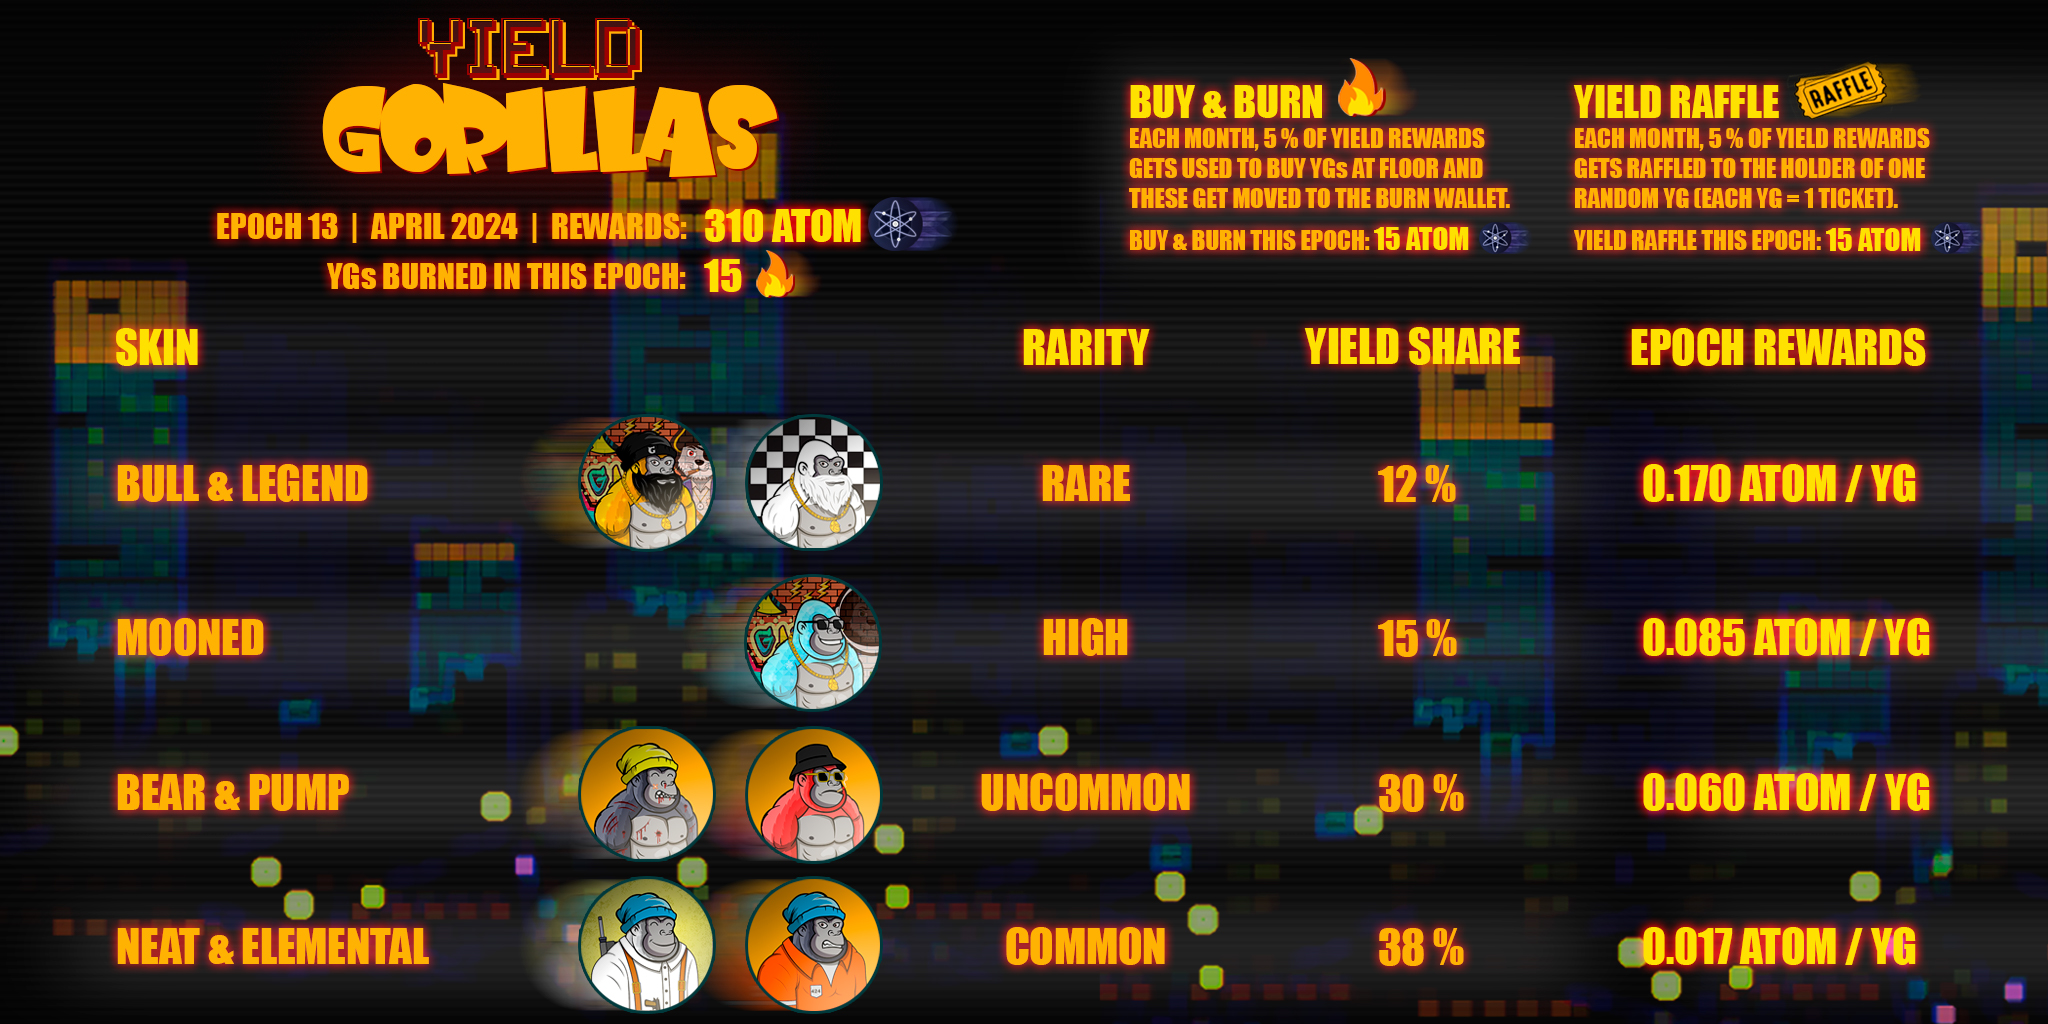
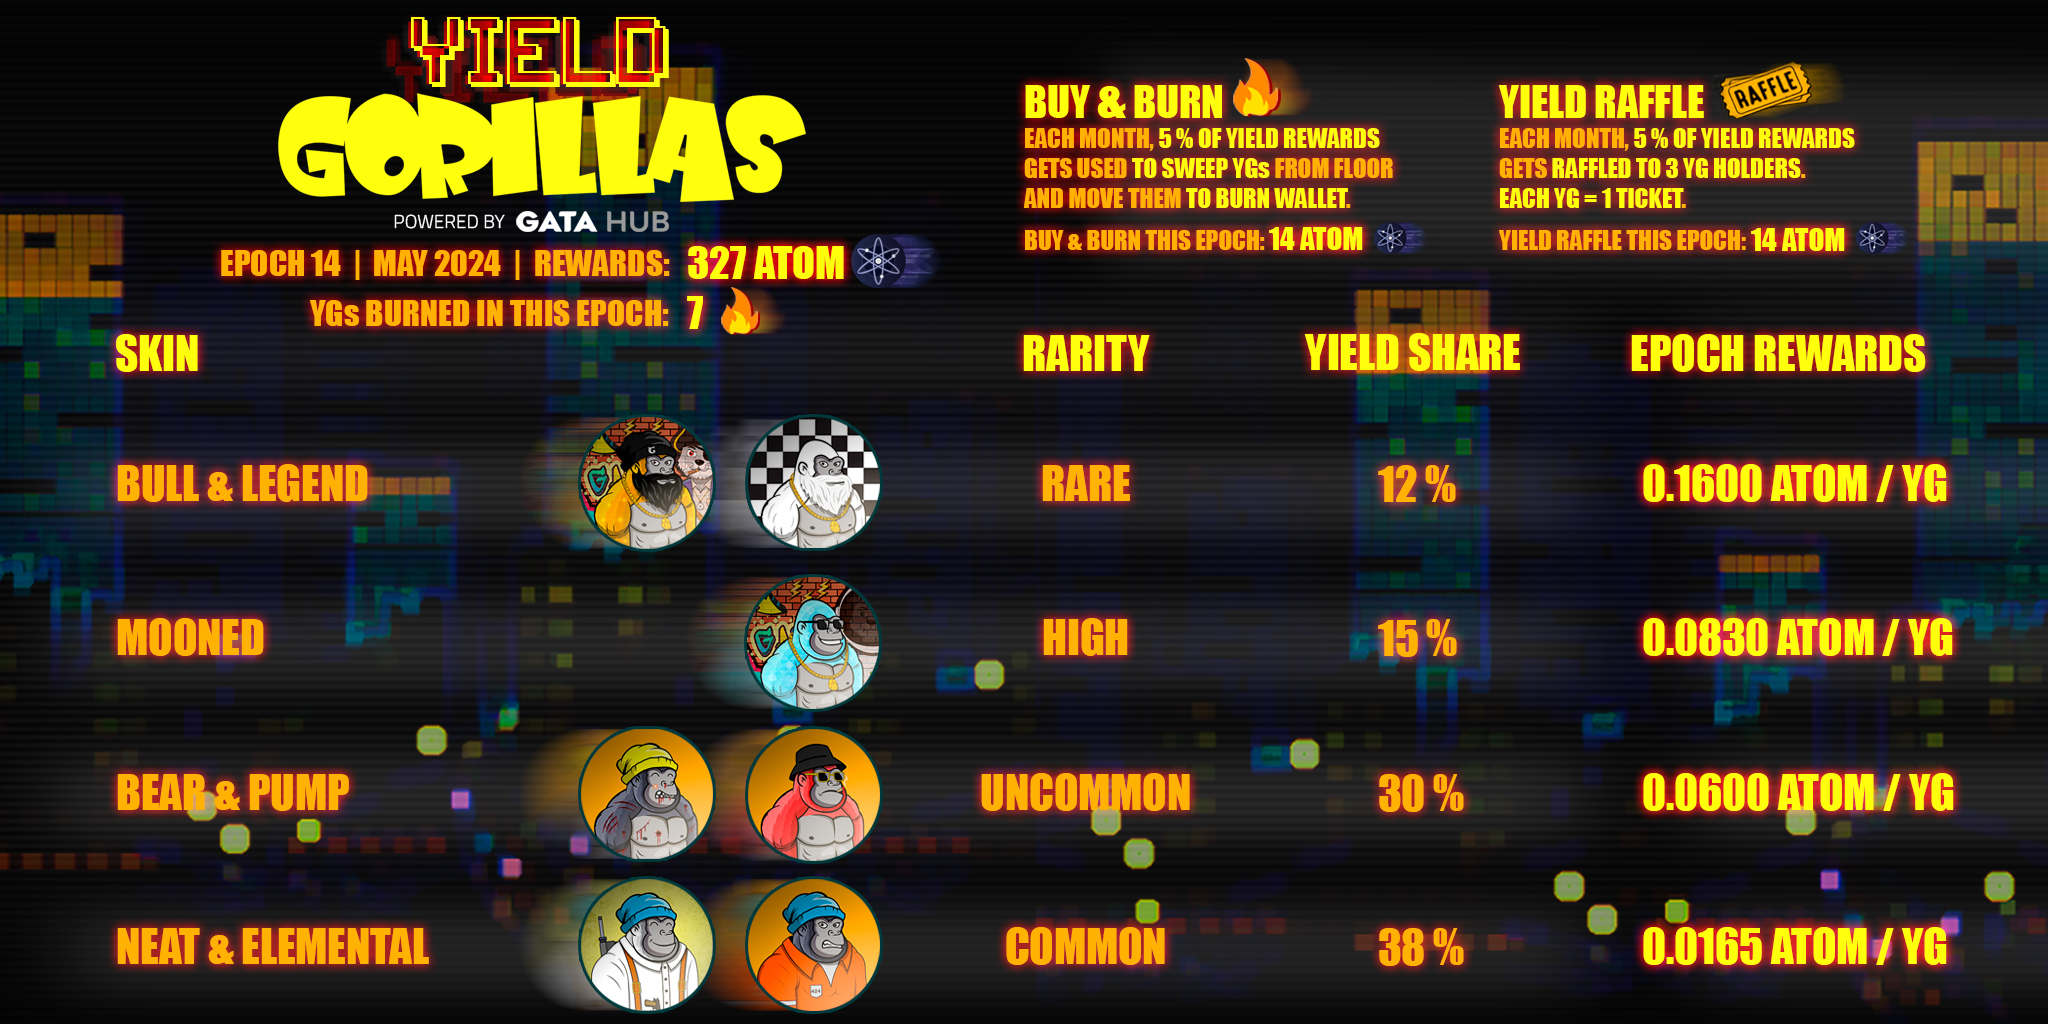
GITBOOK-589: YG epoch 14 chart

diff --git a/gatahub/gata-hub-road-map/2024-road-map.md b/gatahub/gata-hub-road-map/2024-road-map.md
@@ -6,4 +6,4 @@ description: See the list of perpetual task for day to day expansion
 
 <table><thead><tr><th>Task</th><th width="287">Detail</th><th width="73">ETA</th><th>Status</th></tr></thead><tbody><tr><td>On-chain GATA DAO</td><td>Establishing on-chain GATA DAO using DAO DAO module,  it will enhance the existing decision making process within the DAO.  </td><td>Q1</td><td>Executed<br>For details read <a href="../gata-nft-dao/on-chain-gata-dao.md">here</a></td></tr><tr><td>Community rewards via Streampay</td><td>Using existing tooling to reward active community </td><td>Q1</td><td>Executed</td></tr><tr><td>Alternate Validator Funding model</td><td>Discussion and decision to have multiple options to fund the validator expansion</td><td>Q1</td><td></td></tr><tr><td>GATA Channels Overhauling</td><td>New GATA website, restructuring of X and git book docs.</td><td>Q1-Q2</td><td>Executed</td></tr><tr><td>New Yield Collection</td><td>New Yield series based on new model and experince from YGs.</td><td>Q1-Q2</td><td></td></tr><tr><td>GATA Deposit dApp</td><td>Launch of a new gamified dApp on GATAs Dymension RollApp and beyond.  </td><td>Q2</td><td></td></tr><tr><td>GATA beyond Cosmos</td><td>GATA Validators outside of Cosmos on Solana and polygon</td><td>Q2-Q3</td><td></td></tr><tr><td>GATA preparation for ICF</td><td>Finalize the ICF foundation delegation application </td><td>Q3</td><td></td></tr><tr><td>Deposit dApp Upgrades</td><td>New features for the deposit dApp on Dymension RollApp and extension of dApp to more IBC chains. </td><td>Q4</td><td></td></tr></tbody></table>
 
-<figure><img src="../../.gitbook/assets/image (1) (1) (1) (1).png" alt=""><figcaption><p>roadmap</p></figcaption></figure>
+<figure><img src="../../.gitbook/assets/image (1) (1) (1) (1) (1).png" alt=""><figcaption><p>roadmap</p></figcaption></figure>

diff --git a/gatahub/yield-gorillas/yg-reward-distributions.md b/gatahub/yield-gorillas/yg-reward-distributions.md
@@ -6,7 +6,11 @@ description: Overview of all YG epoch rewards.
 
 ## YG Epoch 14
 
-1st May 2024
+1st May 2024\
+\
+
+
+<figure><img src="../../.gitbook/assets/image.png" alt=""><figcaption></figcaption></figure>
 
 ## YG Epoch 13
 
@@ -14,7 +18,7 @@ description: Overview of all YG epoch rewards.
 
 {% embed url="https://github.com/GATA-HUB/snapshots/blob/main/YG/YG%20Epoch%2013" %}
 
-<figure><img src="../../.gitbook/assets/image.png" alt=""><figcaption></figcaption></figure>
+<figure><img src="../../.gitbook/assets/image (1).png" alt=""><figcaption></figcaption></figure>
 
 ## YG Epoch 12
 
